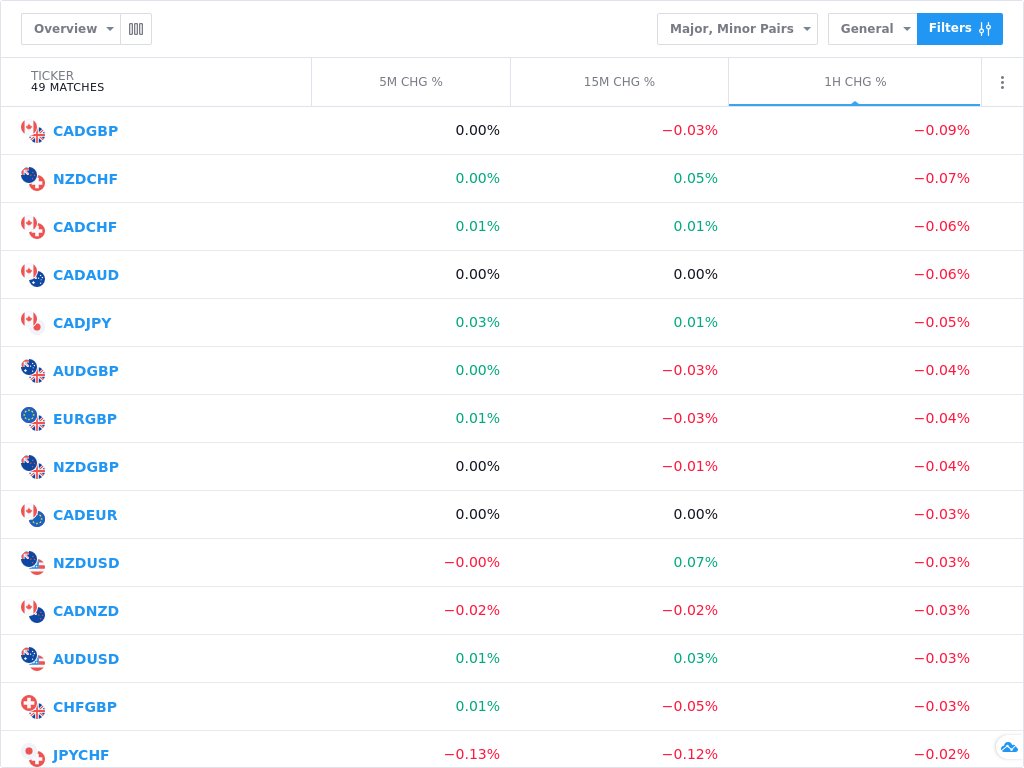
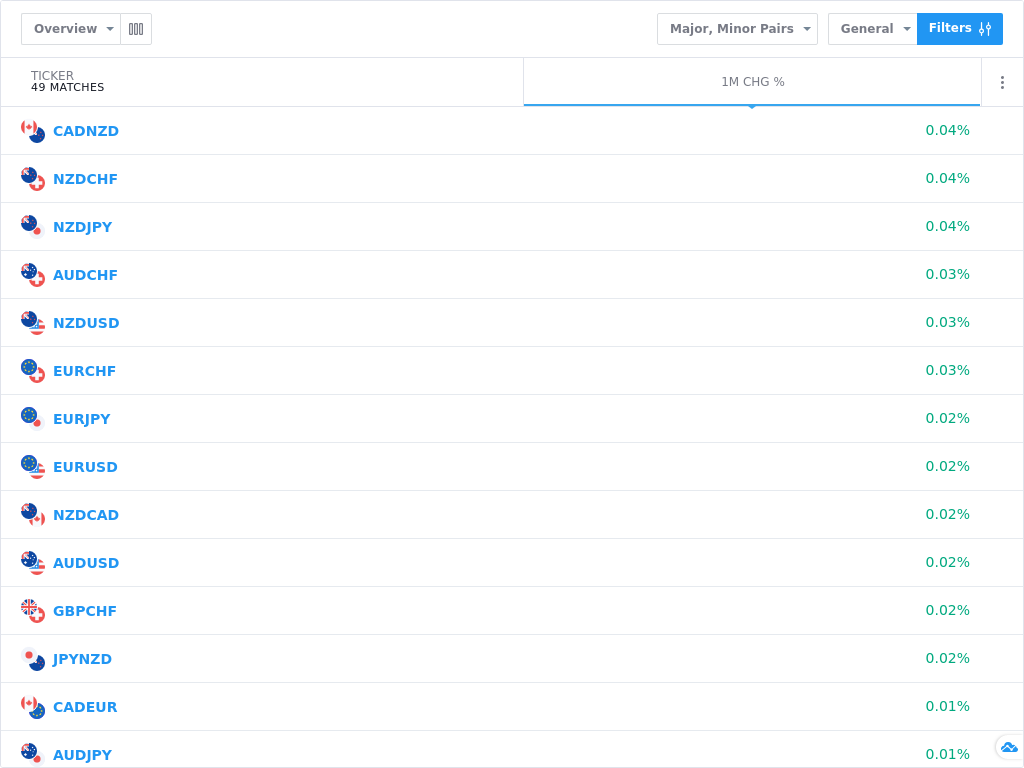
Update

diff --git a/browser.py b/browser.py
@@ -1,9 +1,15 @@
 import asyncio
 from pyppeteer import launch
 
-async def take_screenshot(url, file_name, width, height):
 
+async def start_chrome():
+    global browser
     browser = await launch(headless=True, ignoreHTTPSErrors=True, args=['--no-sandbox', '--disable-setuid-sandbox'])
+    page = await browser.newPage()
+    await page.goto("https://ifconfig.me")
+
+
+async def take_screenshot(url, file_name, width, height):
 
     page = await browser.newPage()
     await page.setViewport({
@@ -17,4 +23,86 @@ async def take_screenshot(url, file_name, width, height):
 
 async def take_screenshot_runner(url, file_name, width, height):
   task1 = asyncio.create_task(take_screenshot(url, file_name, width, height))
+  await task1
+
+
+
+#### SCREENER ####
+async def do_browsing(order, to_show, columns):
+
+    page = await browser.newPage()
+    await page.setViewport({
+      "width": 1024,
+      "height": 768
+    })
+    await page.goto('https://s.tradingview.com/embed-widget/screener/#%7B%0A%20%20%22width%22%3A%201100%2C%0A%20%20%22height%22%3A%20512%2C%0A%20%20%22defaultColumn%22%3A%20%22overview%22%2C%0A%20%20%22defaultScreen%22%3A%20%22general%22%2C%0A%20%20%22market%22%3A%20%22forex%22%2C%0A%20%20%22showToolbar%22%3A%20true%2C%0A%20%20%22colorTheme%22%3A%20%22light%22%2C%0A%20%20%22locale%22%3A%20%22en%22%0A%7D')
+    await asyncio.sleep(1)
+    
+    drop_box = await page.xpath("/html/body/div[1]/div[2]/div/div[2]/div[2]/div[1]")
+    await drop_box[0].click()
+
+    count = 1
+    while count < 9:
+      unusable = await page.xpath(f"/html/body/div[1]/div[2]/div/div[2]/div[2]/div[2]/div[2]/div/div[{count}]/label/label/span[1]")
+      await unusable[0].click()
+      count += 1
+
+    for column in columns:
+      if column == "1m":
+        click_checkbox = await page.xpath("/html/body/div[1]/div[2]/div/div[2]/div[2]/div[2]/div[2]/div/div[66]/label/label/span[1]")
+        await click_checkbox[0].click()
+      elif column == "15m":
+        click_checkbox = await page.xpath("/html/body/div[1]/div[2]/div/div[2]/div[2]/div[2]/div[2]/div/div[62]/label/label/span[1]")
+        await click_checkbox[0].click()
+      elif column == '5m':
+        click_checkbox = await page.xpath("/html/body/div[1]/div[2]/div/div[2]/div[2]/div[2]/div[2]/div/div[70]/label/label/span[1]")
+        await click_checkbox[0].click()
+      elif column == "1h":
+        click_checkbox = await page.xpath("/html/body/div[1]/div[2]/div/div[2]/div[2]/div[2]/div[2]/div/div[64]/label/label/span[1]")
+        await click_checkbox[0].click()
+      elif column == "4h":
+        click_checkbox = await page.xpath("/html/body/div[1]/div[2]/div/div[2]/div[2]/div[2]/div[2]/div/div[68]/label/label/span[1]")
+        await click_checkbox[0].click()
+      elif column == "1mn":
+        click_checkbox = await page.xpath("/html/body/div[1]/div[2]/div/div[2]/div[2]/div[2]/div[2]/div/div[65]/label/label/span[1]")
+        await click_checkbox[0].click()
+      elif column == "15mn":
+        click_checkbox = await page.xpath("/html/body/div[1]/div[2]/div/div[2]/div[2]/div[2]/div[2]/div/div[61]/label/label/span[1]")
+        await click_checkbox[0].click()
+      elif column == '5mn':
+        click_checkbox = await page.xpath("/html/body/div[1]/div[2]/div/div[2]/div[2]/div[2]/div[2]/div/div[69]/label/label/span[1]")
+        await click_checkbox[0].click()
+      elif column == "1hn":
+        click_checkbox = await page.xpath("/html/body/div[1]/div[2]/div/div[2]/div[2]/div[2]/div[2]/div/div[63]/label/label/span[1]")
+        await click_checkbox[0].click()
+      elif column == "4hn":
+        click_checkbox = await page.xpath("/html/body/div[1]/div[2]/div/div[2]/div[2]/div[2]/div[2]/div/div[67]/label/label/span[1]")
+        await click_checkbox[0].click()
+
+
+
+
+##########################################
+
+    dropdown_remove = await page.xpath("/html/body/div[1]/div[2]/div/div[2]/div[3]")
+    await dropdown_remove[0].click()
+    await asyncio.sleep(1)
+########################################
+    too_show = int(to_show) + 1
+    xp = f'/html/body/div[1]/div[2]/div/div[3]/table/thead/tr/th[{too_show}]/div/div/div/div'
+    ord = await page.xpath(xp)
+
+    if order == 'des':
+      await ord[0].click()
+    elif order == "aes":
+      await ord[0].click()
+      await ord[0].click()
+
+
+    await asyncio.sleep(1)
+    await page.screenshot({'path': 's.png'})
+    await browser.close()
+
+async def screener_runner(order, to_show, columns):
+  task1 = asyncio.create_task(do_browsing(order, to_show, columns))
   await task1

diff --git a/main.py b/main.py
@@ -1,7 +1,6 @@
 import discord
 from discord.ext import commands, tasks
 from browser import *
-from screener import *
 import os
 
 client = commands.Bot(command_prefix='.')
@@ -188,6 +187,7 @@ async def h(ctx):
 @client.event
 async def on_ready():
     print('Logged in as {0.user}'.format(client))
+    await start_chrome()
 
 @client.event 
 async def on_message(message):
